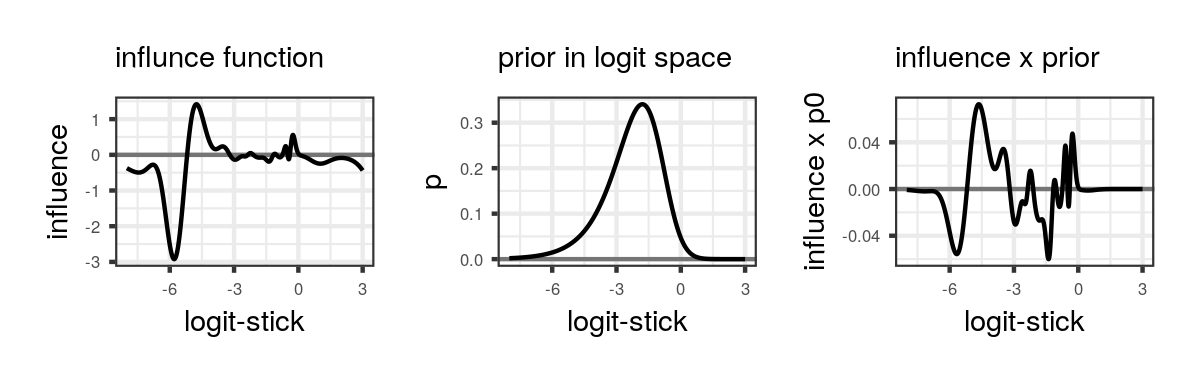
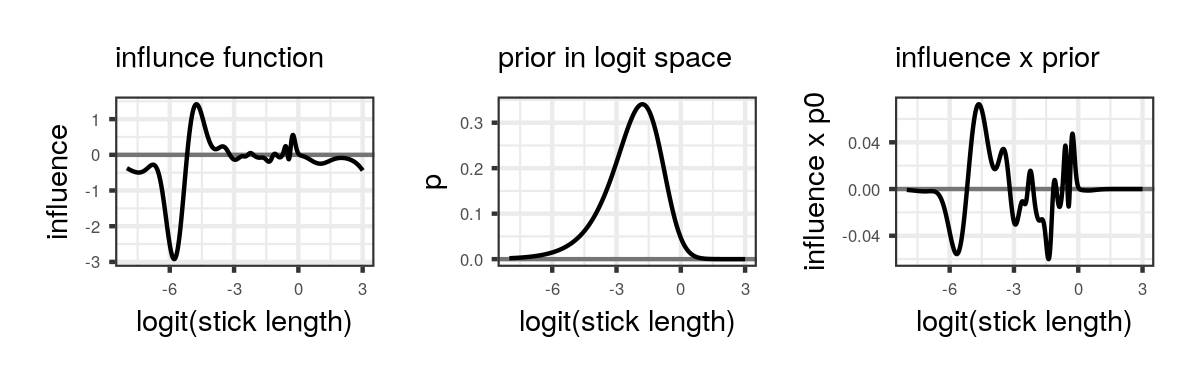
add alpha pert to mice figures

Changed region(s): [[0.0925, 0.8125, 0.3083, 0.875], [0.74, 0.8125, 0.9558, 0.875], [0.4317, 0.8125, 0.6167, 0.875]]

diff --git a/writing/journal_paper/mice_data_experiments.tex b/writing/journal_paper/mice_data_experiments.tex
@@ -138,3 +138,18 @@ Here are results, and a figure. See \figref{example_genes}.
 
 
 \end{knitrout}
+
+
+
+\begin{knitrout}
+\definecolor{shadecolor}{rgb}{0.969, 0.969, 0.969}\color{fgcolor}\begin{figure}[!h]
+
+{\centering \includegraphics[width=0.980\linewidth,height=0.392\linewidth]{figure/alpha_pert_logphi-1} 
+
+}
+
+\caption[The log multiplicative perturbation $\log \phi$ corresponding to decreasing the $\alpha$ parameter by five (left) or increasing the $\alpha$ parameter by five (right)]{The log multiplicative perturbation $\log \phi$ corresponding to decreasing the $\alpha$ parameter by five (left) or increasing the $\alpha$ parameter by five (right). }\label{fig:alpha_pert_logphi}
+\end{figure}
+
+
+\end{knitrout}
